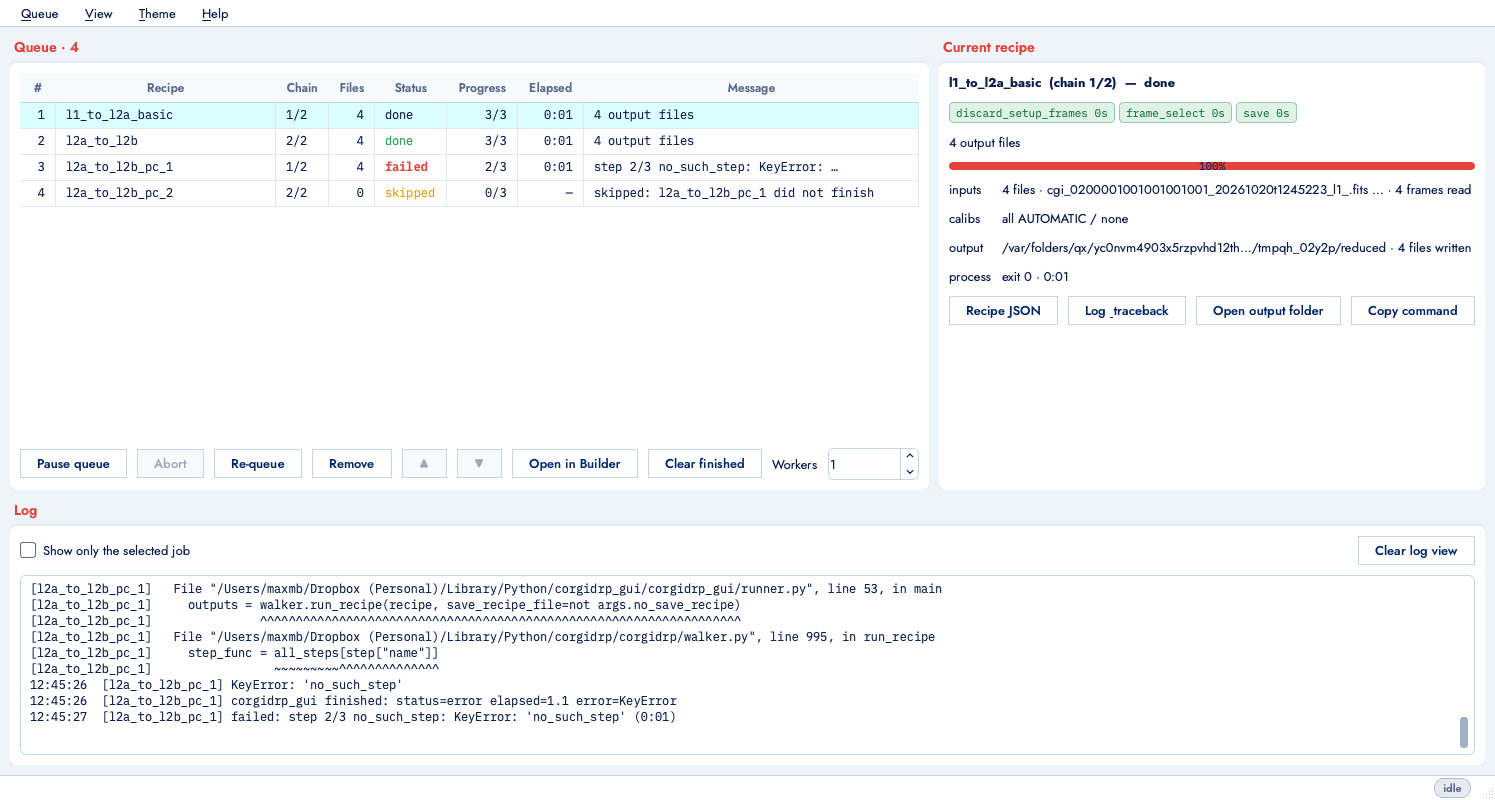
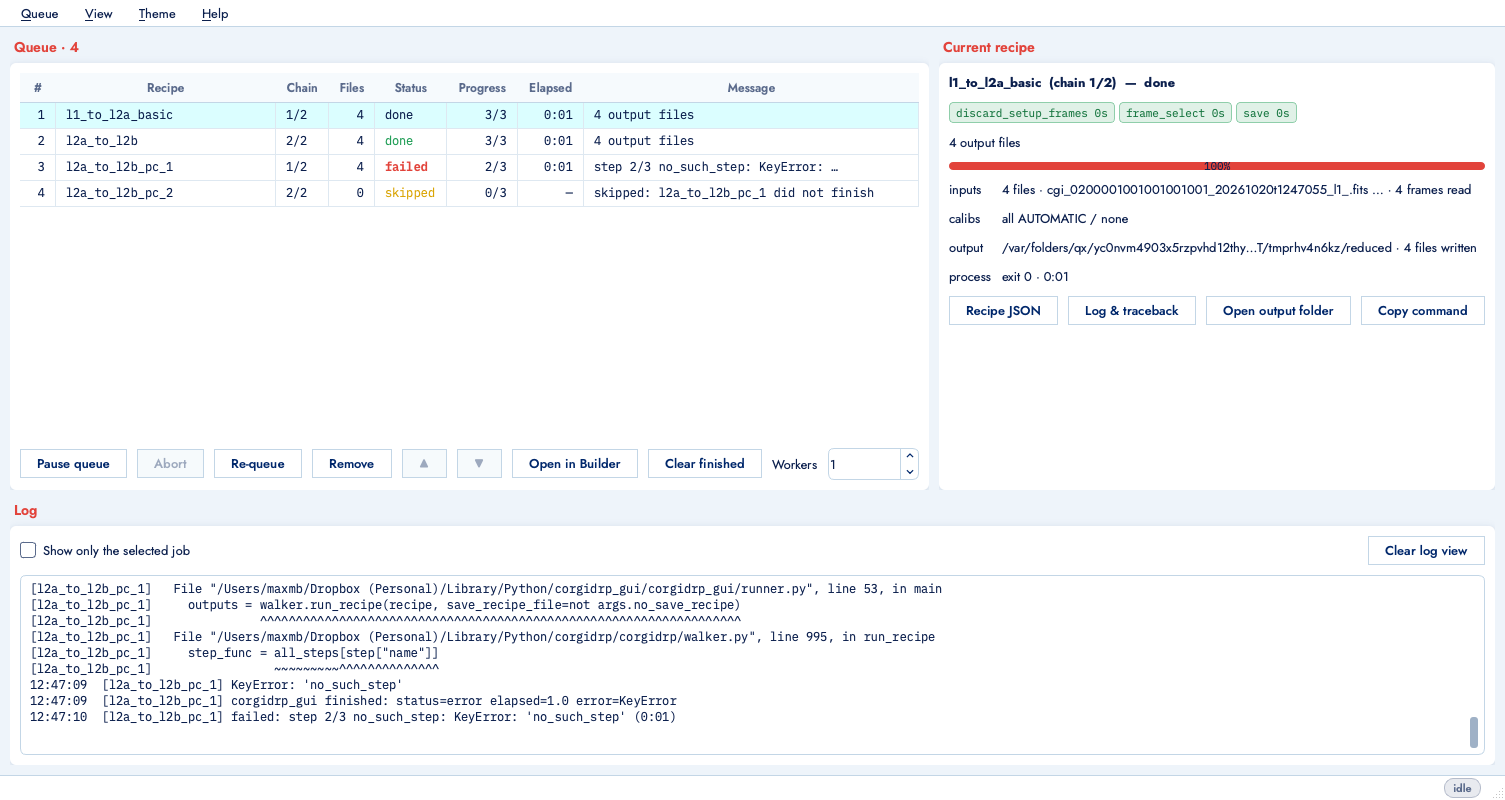
Console: merged runner channels for ordered logs, label fix, stop timer on close

diff --git a/corgidrp_gui/ui/console_window.py b/corgidrp_gui/ui/console_window.py
@@ -241,7 +241,7 @@ class ConsoleWindow(ThemedWindow):
         kv.setColumnStretch(1, 1)
         cpanel.layout().addLayout(kv)
         crow = QtWidgets.QHBoxLayout()
-        for text, slot in (("Recipe JSON", self.view_recipe), ("Log & traceback", self.show_details),
+        for text, slot in (("Recipe JSON", self.view_recipe), ("Log && traceback", self.show_details),
                            ("Open output folder", self.open_output_folder), ("Copy command", self.copy_command)):
             b = QtWidgets.QPushButton(text)
             b.clicked.connect(lambda _=False, s=slot: s())
@@ -369,6 +369,8 @@ class ConsoleWindow(ThemedWindow):
         if pkg_root not in pp.split(os.pathsep):
             env.insert("PYTHONPATH", pkg_root + (os.pathsep + pp if pp else ""))
         proc.setProcessEnvironment(env)
+        # one pipe for stdout+stderr keeps tracebacks in order with the walker's prints
+        proc.setProcessChannelMode(QtCore.QProcess.ProcessChannelMode.MergedChannels)
         proc.setProgram(cmd[0])
         proc.setArguments(cmd[1:])
         proc.setWorkingDirectory(job.outputdir if self.backend.isdir(job.outputdir) else self.backend.home())
@@ -686,6 +688,7 @@ class ConsoleWindow(ThemedWindow):
                 self.abort(j)
             for p in list(self._procs.values()):
                 p.waitForFinished(5000)
+        self._timer.stop()
         self.queue.save()
         self.settings.setValue("console/geometry", self.saveGeometry())
         super().closeEvent(event)
